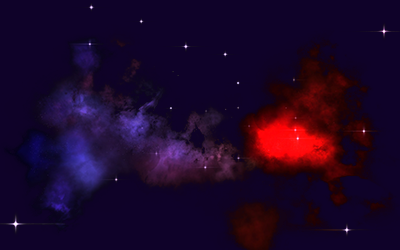
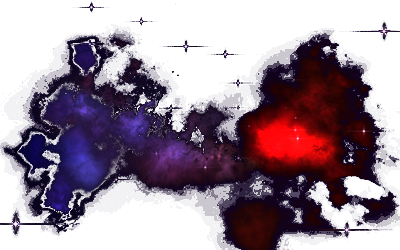
Implement fixed/ranged spaced elements being generated. Add more options to element scales

diff --git a/src/Environment/Backgrounds/ElementGeneratorFactory.cpp b/src/Environment/Backgrounds/ElementGeneratorFactory.cpp
@@ -1,8 +1,10 @@
 #include <Environment/Backgrounds/ElementGeneratorFactory.hpp>
 #include <Environment/Backgrounds/RandomElementGenerator.hpp>
+#include <Environment/Backgrounds/SpacedElementGenerator.hpp>
 
 BackgroundElementGenerator::Ptr ElementGeneratorFactory::create(const JsonGroup& data) {
     const std::string gfx = *data.getField("file")->getAsString();
+    bool preserveAR = false;
     sf::Vector2f minScale, maxScale;
 
     const JsonGroup& scale = *data.getField("scale")->getAsGroup();
@@ -12,24 +14,45 @@ BackgroundElementGenerator::Ptr ElementGeneratorFactory::create(const JsonGroup&
         maxScale = minScale;
     }
     else {
+        if (scale.getField("ranged")->getAsGroup()->hasField("preserveAR"))
+            preserveAR = *scale.getField("ranged")->getAsGroup()->getField("preserveAR")->getAsBool();
         minScale.x = *scale.getField("ranged")->getAsGroup()->getField("minx")->getAsNumeric();
         minScale.y = *scale.getField("ranged")->getAsGroup()->getField("miny")->getAsNumeric();
         maxScale.x = *scale.getField("ranged")->getAsGroup()->getField("maxx")->getAsNumeric();
         maxScale.y = *scale.getField("ranged")->getAsGroup()->getField("maxy")->getAsNumeric();
+
+        if (scale.getField("ranged")->getAsGroup()->hasField("allowFlipH")) {
+            if (*scale.getField("ranged")->getAsGroup()->getField("allowFlipH")->getAsBool())
+                minScale.x *= -1;
+        }
+        if (scale.getField("ranged")->getAsGroup()->hasField("allowFlipV")) {
+            if (*scale.getField("ranged")->getAsGroup()->getField("allowFlipV")->getAsBool())
+                minScale.y *= -1;
+        }        
     }
 
     const JsonGroup& pos = *data.getField("positioning")->getAsGroup();
-    if (pos.hasField("fixedSpacing")) {
-        //TODO - fixed spacing generator
-        return nullptr;
-    }
-    else if (pos.hasField("rangedSpacing")) {
-        //TODO - ranged spacing generator
+    if (pos.hasField("fixedSpacing") || pos.hasField("rangedSpacing")) {
+        sf::Vector2f minSpace, maxSpace;
+        if (pos.hasField("rangedSpacing")) {
+            minSpace.x = *pos.getField("rangedSpacing")->getAsGroup()->getField("minx")->getAsNumeric();
+            minSpace.y = *pos.getField("rangedSpacing")->getAsGroup()->getField("miny")->getAsNumeric();
+            maxSpace.x = *pos.getField("rangedSpacing")->getAsGroup()->getField("maxx")->getAsNumeric();
+            maxSpace.y = *pos.getField("rangedSpacing")->getAsGroup()->getField("maxy")->getAsNumeric();
+        }
+        else {
+            minSpace.x = *pos.getField("fixedSpacing")->getAsGroup()->getField("x")->getAsNumeric();
+            minSpace.y = *pos.getField("fixedSpacing")->getAsGroup()->getField("y")->getAsNumeric();
+            maxSpace = minSpace;
+        }
+        return BackgroundElementGenerator::Ptr(
+            new SpacedElementGenerator(gfx, preserveAR, minScale, maxScale, minSpace, maxSpace)
+        );
     }
     else if (pos.hasField("random")) {
         const float density = *pos.getField("random")->getAsGroup()->getField("density")->getAsNumeric();
         return BackgroundElementGenerator::Ptr(
-            new RandomElementGenerator(gfx, density, minScale, maxScale)
+            new RandomElementGenerator(gfx, density, preserveAR, minScale, maxScale)
         );
     }
     return nullptr;

diff --git a/src/Environment/Backgrounds/BackgroundElementGenerator.cpp b/src/Environment/Backgrounds/BackgroundElementGenerator.cpp
@@ -6,11 +6,11 @@
 #include <iostream>
 
 namespace {
-constexpr int   keySkew          = 100000;
-constexpr float cleanPeriod      = 10.0;
-constexpr int   bucketSize       = 1000;
-constexpr int   maxRenderBuckets = 10;
-constexpr int   lowRenderInc     = 4;
+constexpr int   keySkew           = 100000;
+constexpr float cleanPeriod       = 10.0;
+constexpr int   bucketSize        = 1000;
+constexpr int   maxRenderBuckets  = 10;
+constexpr int   lowRenderInc      = 4;
 }
 
 bool BackgroundElementGenerator::BucketKeyCmp::operator()(
@@ -32,13 +32,13 @@ BackgroundElementGenerator::BucketKey::operator sf::FloatRect() const {
     return {
         static_cast<float>(x) * bucketSize,
         static_cast<float>(y) * bucketSize,
-        bucketSize,
-        bucketSize
+        static_cast<float>(bucketSize),
+        static_cast<float>(bucketSize)
     };
 }
 
-std::vector<BackgroundElementGenerator::BucketKey> BackgroundElementGenerator::BucketKey::gen(
-                                                                    const sf::FloatRect& region) {
+std::vector<BackgroundElementGenerator::BucketKey>
+    BackgroundElementGenerator::BucketKey::gen(const sf::FloatRect& region) {
     const int x = std::floor(region.left / static_cast<float>(bucketSize)) - 1;
     const int y = std::floor(region.top / static_cast<float>(bucketSize)) - 1;
     const int w = std::ceil(region.width / static_cast<float>(bucketSize)) + 1;
@@ -56,9 +56,14 @@ std::vector<BackgroundElementGenerator::BucketKey> BackgroundElementGenerator::B
     return keys;
 }
 
-BackgroundElementGenerator::BackgroundElementGenerator(const std::string& file, const sf::Vector2f& minScale, const sf::Vector2f& maxScale)
+BackgroundElementGenerator::BackgroundElementGenerator(const std::string& file, bool preserveAR,
+    const sf::Vector2f& minScale, const sf::Vector2f& maxScale)
 : gfx(Properties::EnvironmentImagePath, Properties::EnvironmentAnimPath, file, false)
-, minScale(minScale), maxScale(maxScale) {
+, preserveAspectRatio(preserveAR)
+, canFlipH(minScale.x < 0)
+, canFlipV(minScale.y < 0)
+, minScale(std::abs(minScale.x), std::abs(minScale.y))
+, maxScale(maxScale) {
     gfx.setScale(maxScale);
     maxGfxSize = gfx.getSize();
 }
@@ -88,10 +93,15 @@ const sf::Vector2f& BackgroundElementGenerator::getElementSize() const {
 }
 
 sf::Vector2f BackgroundElementGenerator::getElementScale() const {
-    return {
-        randomFloat(minScale.x, maxScale.x),
-        randomFloat(minScale.y, maxScale.y)
-    };
+    float x = randomFloat(minScale.x, maxScale.x);
+    if (canFlipH && randomFloat(0, 1) <= 0.5)
+        x *= -1;
+    float y = randomFloat(minScale.x, minScale.y);
+    if (canFlipV && randomFloat(0, 1) <= 0.5)
+        y *= -1;
+    if (preserveAspectRatio)
+        y = x;
+    return {x, y};
 }
 
 void BackgroundElementGenerator::render(sf::RenderTarget& target) {
@@ -100,7 +110,7 @@ void BackgroundElementGenerator::render(sf::RenderTarget& target) {
         target.getView().getSize()
     );
     const std::vector<BucketKey> keys = BucketKey::gen(region);
-    if (keys.size() <= maxRenderBuckets) {
+    if (keys.size() <= maxRenderBuckets || true) {
         //proper render
         for (unsigned int i = 0; i<keys.size(); ++i) {
             auto bucket = buckets.find(keys[i]);

diff --git a/src/Environment/Backgrounds/SpacedElementGenerator.cpp b/src/Environment/Backgrounds/SpacedElementGenerator.cpp
@@ -1,0 +1,47 @@
+#include <Environment/Backgrounds/SpacedElementGenerator.hpp>
+#include <Util/Util.hpp>
+#include <cmath>
+
+#include <iostream>
+
+SpacedElementGenerator::SpacedElementGenerator(
+        const std::string& file, bool preserveAR,
+        const sf::Vector2f& minScale, const sf::Vector2f& maxScale,
+        const sf::Vector2f& minSpace, const sf::Vector2f& maxSpace)
+: BackgroundElementGenerator(file, preserveAR, minScale, maxScale)
+, minSpace(minSpace)
+, maxSpace(maxSpace) {}
+
+BackgroundElementGenerator::ElementBucket SpacedElementGenerator::generate(
+                                                const sf::FloatRect& region) {
+    const sf::Vector2f avgSpace = (maxSpace+minSpace)/2.0f;
+    const sf::Vector2f avgSize = avgSpace + getElementSize();
+    const sf::Vector2f offset = {
+        static_cast<float>(static_cast<int>(region.width) % static_cast<int>(avgSize.x)) / 2.0f,
+        static_cast<float>(static_cast<int>(region.height) % static_cast<int>(avgSize.y)) / 2.0f
+    };
+    const sf::Vector2i n = {
+        static_cast<int>(std::floor(region.width / avgSize.x)),
+        static_cast<int>(std::floor(region.height / avgSize.y))
+    };
+
+    BackgroundElementGenerator::ElementBucket elements;
+
+    const float halfY = (maxSpace.y - minSpace.y) / 2.0f;
+    float x = region.left + offset.x;
+    float y = region.top + offset.y;
+    for (int cy = 0; cy<n.y; ++cy) {
+        for (int cx = 0; cx<n.x; ++cx) {
+            const float ox = randomFloat(minSpace.x, maxSpace.x);
+            const float oy = randomFloat(minSpace.y, maxSpace.y) - halfY;
+            elements.push_back({
+                sf::Vector2f(x,y+oy),
+                getElementScale()
+            });
+            x += getElementSize().x + ox;
+        }
+        y += avgSize.y;
+    }
+
+    return elements;
+}

diff --git a/src/Environment/Backgrounds/SpacedElementGenerator.hpp b/src/Environment/Backgrounds/SpacedElementGenerator.hpp
@@ -1,0 +1,25 @@
+#ifndef SPACEDELEMENTGENERATOR_HPP
+#define SPACEDELEMENTGENERATOR_HPP
+
+#include <Environment/Backgrounds/BackgroundElementGenerator.hpp>
+
+class ElementGeneratorFactory;
+
+/**
+ * Generates background elements with random or uniform spacing
+ */
+class SpacedElementGenerator : public BackgroundElementGenerator {
+    SpacedElementGenerator(const std::string& file, bool preserveAR,
+        const sf::Vector2f& minScale, const sf::Vector2f& maxScale,
+        const sf::Vector2f& minSpace, const sf::Vector2f& maxSpace);
+
+    virtual BackgroundElementGenerator::ElementBucket generate(const sf::FloatRect& region) override;
+
+private:
+    const sf::Vector2f minSpace;
+    const sf::Vector2f maxSpace;
+
+    friend class ElementGeneratorFactory;
+};
+
+#endif

diff --git a/src/Environment/Backgrounds/RandomElementGenerator.cpp b/src/Environment/Backgrounds/RandomElementGenerator.cpp
@@ -1,9 +1,10 @@
 #include <Environment/Backgrounds/RandomElementGenerator.hpp>
 #include <Util/Util.hpp>
 
-RandomElementGenerator::RandomElementGenerator(const std::string& gfx, float density,
+RandomElementGenerator::RandomElementGenerator(
+    const std::string& gfx, float density, bool preserveAR,
     const sf::Vector2f& minScale, const sf::Vector2f& maxScale)
-: BackgroundElementGenerator(gfx, minScale, maxScale), density(density) {}
+: BackgroundElementGenerator(gfx, preserveAR, minScale, maxScale), density(density) {}
 
 BackgroundElementGenerator::ElementBucket RandomElementGenerator::generate(const sf::FloatRect& region) {
     BackgroundElementGenerator::ElementBucket elements;

diff --git a/src/Environment/Backgrounds/BackgroundElementGenerator.hpp b/src/Environment/Backgrounds/BackgroundElementGenerator.hpp
@@ -23,7 +23,7 @@ protected:
     };
     typedef std::vector<Element> ElementBucket;
 
-    BackgroundElementGenerator(const std::string& file,
+    BackgroundElementGenerator(const std::string& file, bool preserveAR,
         const sf::Vector2f& minScale, const sf::Vector2f& maxScale);
 
     /**
@@ -53,6 +53,9 @@ private:
     std::map<BucketKey, ElementBucket, BucketKeyCmp> buckets;
 
     GraphicsWrapper gfx;
+    const bool preserveAspectRatio;
+    const bool canFlipH;
+    const bool canFlipV;
     const sf::Vector2f minScale;
     const sf::Vector2f maxScale;
     sf::Vector2f maxGfxSize;

diff --git a/src/Util/Schemas.cpp b/src/Util/Schemas.cpp
@@ -5,6 +5,9 @@ namespace {
 JsonSchema createBackgroundSchema() {
     // Generic range
     SchemaGroup rangeGroup;
+    rangeGroup.addOptionalField("preserveAR", SchemaValue::anyBool);
+    rangeGroup.addOptionalField("allowHFlip", SchemaValue::anyBool);
+    rangeGroup.addOptionalField("allowVFlip", SchemaValue::anyBool);
     rangeGroup.addExpectedField("minx", SchemaValue::positiveNumber);
     rangeGroup.addExpectedField("miny", SchemaValue::positiveNumber);
     rangeGroup.addExpectedField("maxx", SchemaValue::positiveNumber);

diff --git a/src/Environment/Backgrounds/RandomElementGenerator.hpp b/src/Environment/Backgrounds/RandomElementGenerator.hpp
@@ -9,7 +9,7 @@ struct ElementGeneratorFactory;
  * Generates elements randomly with a given density
  */
 class RandomElementGenerator : public BackgroundElementGenerator {
-    RandomElementGenerator(const std::string& gfx, float density,
+    RandomElementGenerator(const std::string& gfx, float density, bool preserveAR,
         const sf::Vector2f& minScale, const sf::Vector2f& maxScale);
 
     virtual BackgroundElementGenerator::ElementBucket generate(const sf::FloatRect& region) override;
